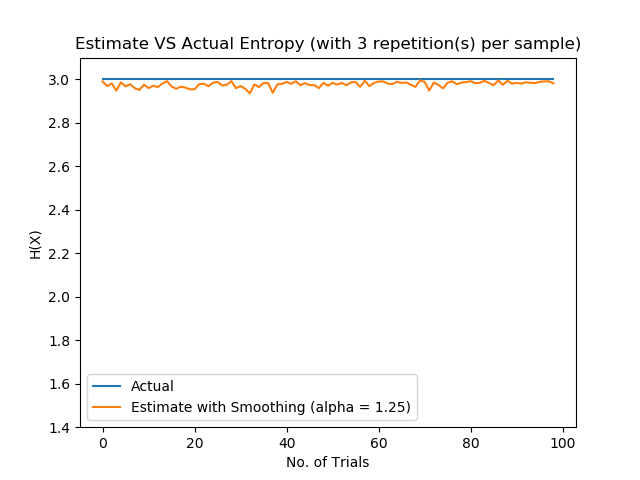
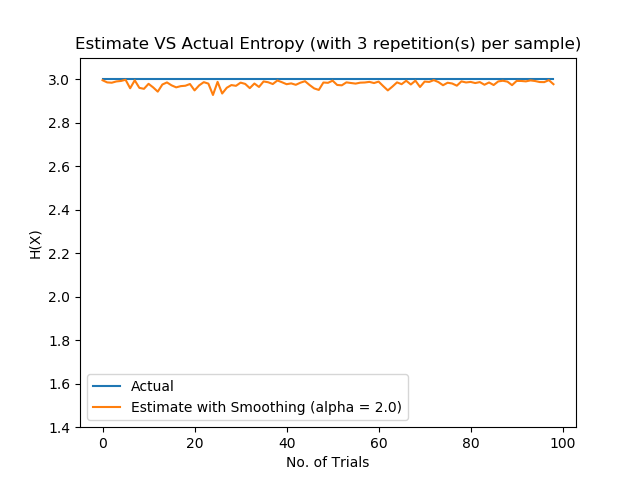
updating final fig

Changed region(s): [[0.1562, 0.1562, 0.875, 0.1875], [0.5938, 0.7812, 0.6562, 0.875]]

diff --git a/CW1/Q5.py b/CW1/Q5.py
@@ -4,8 +4,8 @@ import math
 import random
 
 def calc_entropy(probs):
-    # if np.sum(probs) != 1:
-    #     print ("WARNING: Probability distribution doesn't sum to 1, it sums to {}".format(np.sum(probs)))
+    if np.sum(probs) != 1:
+        print ("WARNING: Probability distribution doesn't sum to 1, it sums to {}".format(np.sum(probs)))
     entropy = 0
     for px in probs:
         if px != 0:
@@ -61,27 +61,54 @@ def plot_fig(actual, estimate, laplace, alpha, location = 111):
 
 
 # MAIN
-
 dist_X = np.full((8),1/8)
 actual_entropy = calc_entropy(dist_X)
 # print (actual_entropy)
 
 repetitions = 3
 trials = 100
+
+'''
 print ("Repetition(s) per Sample: {}\nNo. of Trials: {} ".format(repetitions, trials))
 
 
-# actual, estimate, laplace, alpha = trial_calculations(actual_entropy, repetitions, trials)
-# plot_fig(actual, estimate, laplace, alpha)
-#
-# actual, estimate, laplace, alpha = trial_calculations(actual_entropy, repetitions, trials, laplace=True, alpha = 0.25)
-# plot_fig(actual, estimate, laplace, alpha)
-#
-# actual, estimate, laplace, alpha = trial_calculations(actual_entropy, repetitions, trials, laplace=True, alpha = 0.5)
-# plot_fig(actual, estimate, laplace, alpha)
-#
-# actual, estimate, laplace, alpha = trial_calculations(actual_entropy, repetitions, trials, laplace=True, alpha = 1.0)
-# plot_fig(actual, estimate, laplace, alpha)
-
-actual, estimate, laplace, alpha = trial_calculations(actual_entropy, repetitions, trials, laplace=True, alpha = 1.25)
+actual, estimate, laplace, alpha = trial_calculations(actual_entropy, repetitions, trials)
 plot_fig(actual, estimate, laplace, alpha)
+
+actual, estimate, laplace, alpha = trial_calculations(actual_entropy, repetitions, trials, laplace=True, alpha = 0.25)
+plot_fig(actual, estimate, laplace, alpha)
+
+actual, estimate, laplace, alpha = trial_calculations(actual_entropy, repetitions, trials, laplace=True, alpha = 0.5)
+plot_fig(actual, estimate, laplace, alpha)
+
+actual, estimate, laplace, alpha = trial_calculations(actual_entropy, repetitions, trials, laplace=True, alpha = 1.0)
+plot_fig(actual, estimate, laplace, alpha)
+
+actual, estimate, laplace, alpha = trial_calculations(actual_entropy, repetitions, trials, laplace=True, alpha = 2.0)
+plot_fig(actual, estimate, laplace, alpha)
+'''
+actual, estimate, laplace, alpha = trial_calculations(actual_entropy, repetitions, trials, laplace=True, alpha = 2.0)
+plot_fig(actual, estimate, laplace, alpha)
+#
+# X = [1/8, 7/8]
+# HX = calc_entropy(X)
+# Y = [9/16, 1/4, 3/16]
+# HY = calc_entropy(Y)
+# XY = [1/16, 1/16, 1/2, 1/4,1/8]
+# HXY = calc_entropy(XY)
+#
+# Xg1 = [1/9, 8/9]
+# HXg1 = calc_entropy(Xg1)
+#
+# Xg2 = [0,1]
+# HXg2 = calc_entropy(Xg2)
+#
+# Xg3 = [1/3,2/3]
+# HXg3 = calc_entropy(Xg3)
+#
+# HXgY = 9/16 * HXg1 + 1/4 * HXg2 + 3/16 * HXg3
+#
+# X = [1/8, 1/4, 5/16, 5/16]
+# HX = calc_entropy(X)
+#
+# print (HX)
